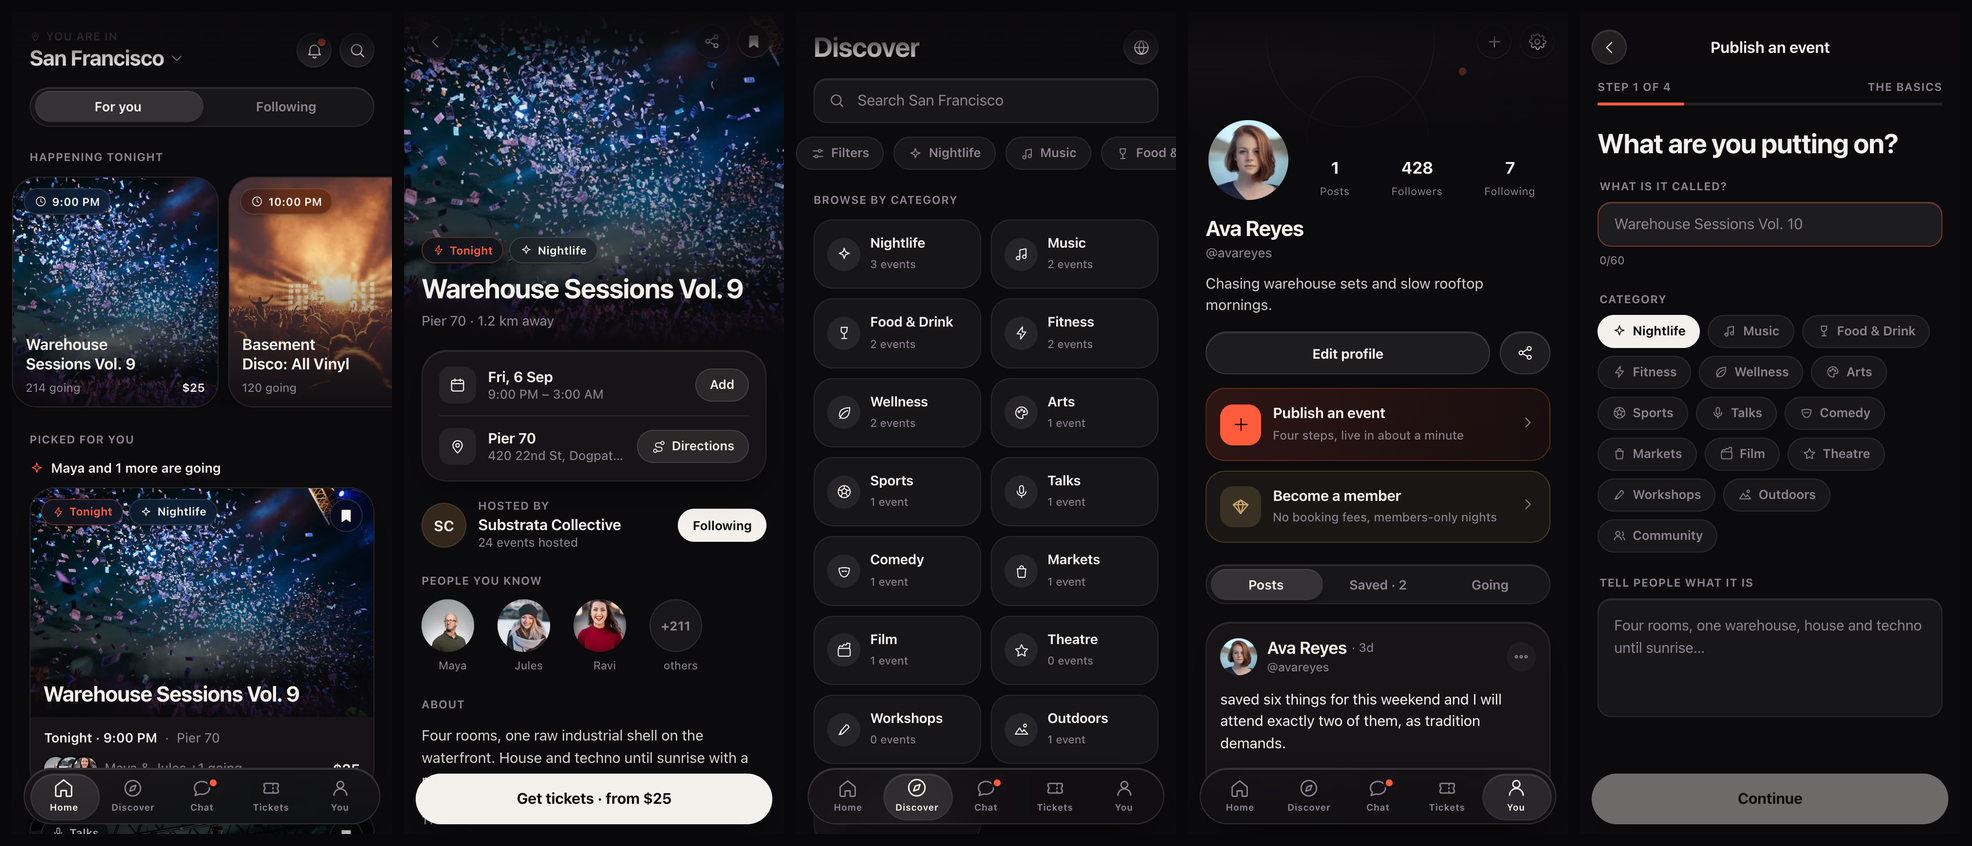
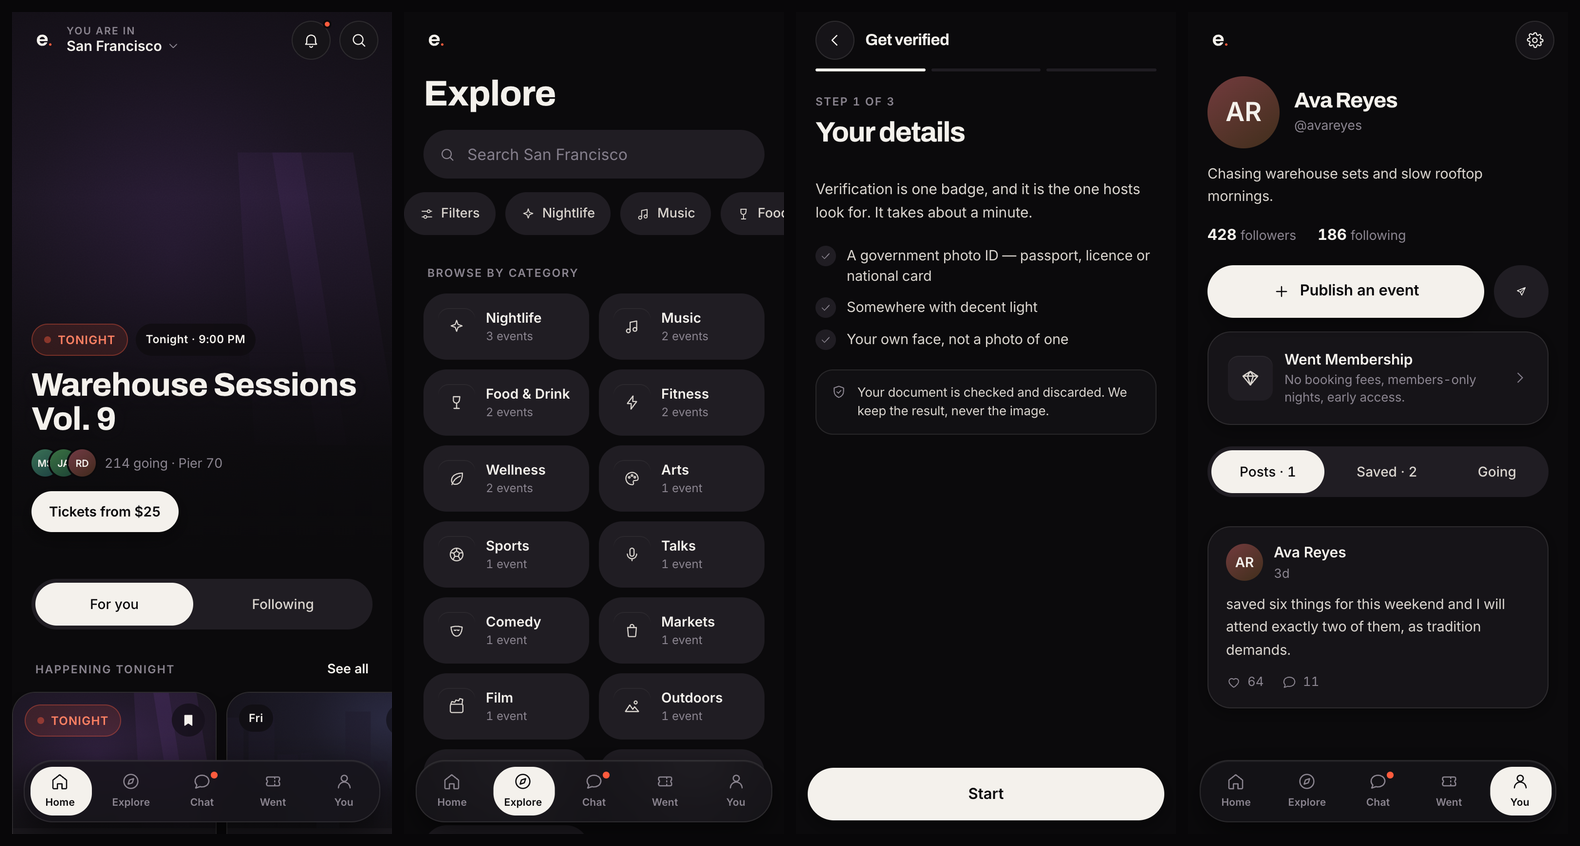
README: describe what the app actually is now
It still promised hotlinked Unsplash covers, a serif display face and a
four-step publish flow, none of which are true.

diff --git a/README.md b/README.md
@@ -43,10 +43,13 @@ Bone, which is what the guidelines already had.
 
 ### Type
 
-**Fraunces** for page titles, event titles and any number that deserves weight.
-**Plus Jakarta Sans** for everything else. Both are vendored as woff2 and
-preloaded — no CDN, no layout shift. The pairing is ours but unused by any other
-preview, so this does not read as a sibling of NORM or Balance.
+Two grotesques, no serif. **Archivo** carries every headline — 700–760 weight with
+tracking that tightens as the size grows — and **Inter** does the small work, where
+it is still the best face on a dark screen. Both are self-hosted variable subsets
+(≈35 KB and ≈48 KB); nothing is fetched from a font CDN.
+
+A serif was tried and dropped: it read like a recipe column on a nightlife product,
+and the "e." mark itself is geometric sans.
 
 ## The interface
 
@@ -67,13 +70,13 @@ preview, so this does not read as a sibling of NORM or Balance.
 
 ## What is in it
 
-Five tabs — **Home · Explore · Chat · Went · You** — and eighteen screens.
+Five tabs — **Home · Explore · Chat · Went · You** — and twenty screens.
 
 **Home** — one event takes a full-bleed hero, a For You / Following switch, a
 "happening tonight" rail, and a scored feed where every card says *why* it is
 there.
 **Explore** — search, fifteen categories ranked by how full they are, a filter
-sheet (when / price / sort), free-this-week and closest-to-you rails.
+sheet of chips with a live match count, free-this-week and closest-to-you rails.
 **Event** — hero, when/where card, a map schematic, host with follow, who is
 going, tiers, more from the host, similar events, report.
 **Booking** — tier picker, quantity, checkout with three methods, a booking fee
@@ -82,12 +85,17 @@ that membership waives, confirmation, and the pass.
 **Went** — what you are going to and what you have been to, split Upcoming /
 Past, each opening a Milk pass with a scannable-looking code.
 **You** — profile with posts/saved/going, the publish CTA, membership, and a
-settings tree (account, notifications, privacy, blocked, muted, payment,
+grouped settings tree (account, verification, privacy, notifications, payment,
 appearance, help, legal, about).
-**Publish** — four steps, with the card being built visible as you type and a
-payout that tracks the price field on every keystroke.
-**Anywhere** — a country rail and city list with "living here" / "just
-visiting". San Francisco is hand-written; every other city generates a full,
+**Verification** — three steps for the badge hosts look for: what you need, a
+document in a frame that scans, a face guide that sweeps, then the wait and the
+badge. Nothing is captured or sent, and the screen says so.
+**Publish** — five steps, with the card being built visible as you type and a
+payout that tracks the price field on every keystroke. Step four is **Artwork**:
+six posters drawn from the kind of night it is, or a photo of your own, which
+stays on the device.
+**Anywhere** — a search across every city on earth, the places you have been,
+and city cards carrying their own art, with "living here" / "just visiting". San Francisco is hand-written; every other city generates a full,
 deterministic catalogue from its own name, so Tokyo is the same Tokyo each time.
 
 ## Structure
@@ -113,7 +121,7 @@ e2e.py                113 checks in real Chrome, screenshots into docs/shots/
 serve.py              local preview on :8141, no-store
 ```
 
-### Four decisions worth knowing
+### Decisions worth knowing
 
 **Every render gets a fresh container.** Setting `#view.innerHTML` leaves any
 listener a view bound to `#view` still attached, so after two visits one tap
@@ -133,11 +141,19 @@ module is worse than being offline. Cover images stay cache-first — they never
 change at a given URL and they are the expensive part. The worker does not
 register on localhost at all.
 
-**Cover photography is hotlinked from Unsplash**, with a brand gradient painted
-underneath every one. A blocked, slow or 404'd image degrades to the palette
-rather than to a grey hole, and errors retry once then stay hidden rather than
-removing the element. Swap `IMG` in `js/data/geo.js` for client imagery when
-there is any.
+**All artwork is drawn, not fetched.** Every cover is generated SVG: six
+compositions — a shaft of light, a horizon, a skyline, thrown rings, a ticket grid,
+a waveform — over one hue per category, mostly dark with the colour arriving as a
+glow rather than a fill, plus grain and a vignette that hands the bottom back to Ink
+so a title always has ground to sit on. It is seeded on the event, so a night looks
+the same forever, on every device, offline, with nothing to download.
+
+Stock photography was the wrong answer twice: the same six crowd shots repeated
+down a feed and belonged to nobody, and stock headshots standing in for your friends
+were worse — so avatars are generated identity marks too. The upshot is that the app
+is entirely same-origin: no CDN, no preconnect, one cache, and a preview that works
+on a plane.
+
 
 ## Placeholder, and deliberately so
 
